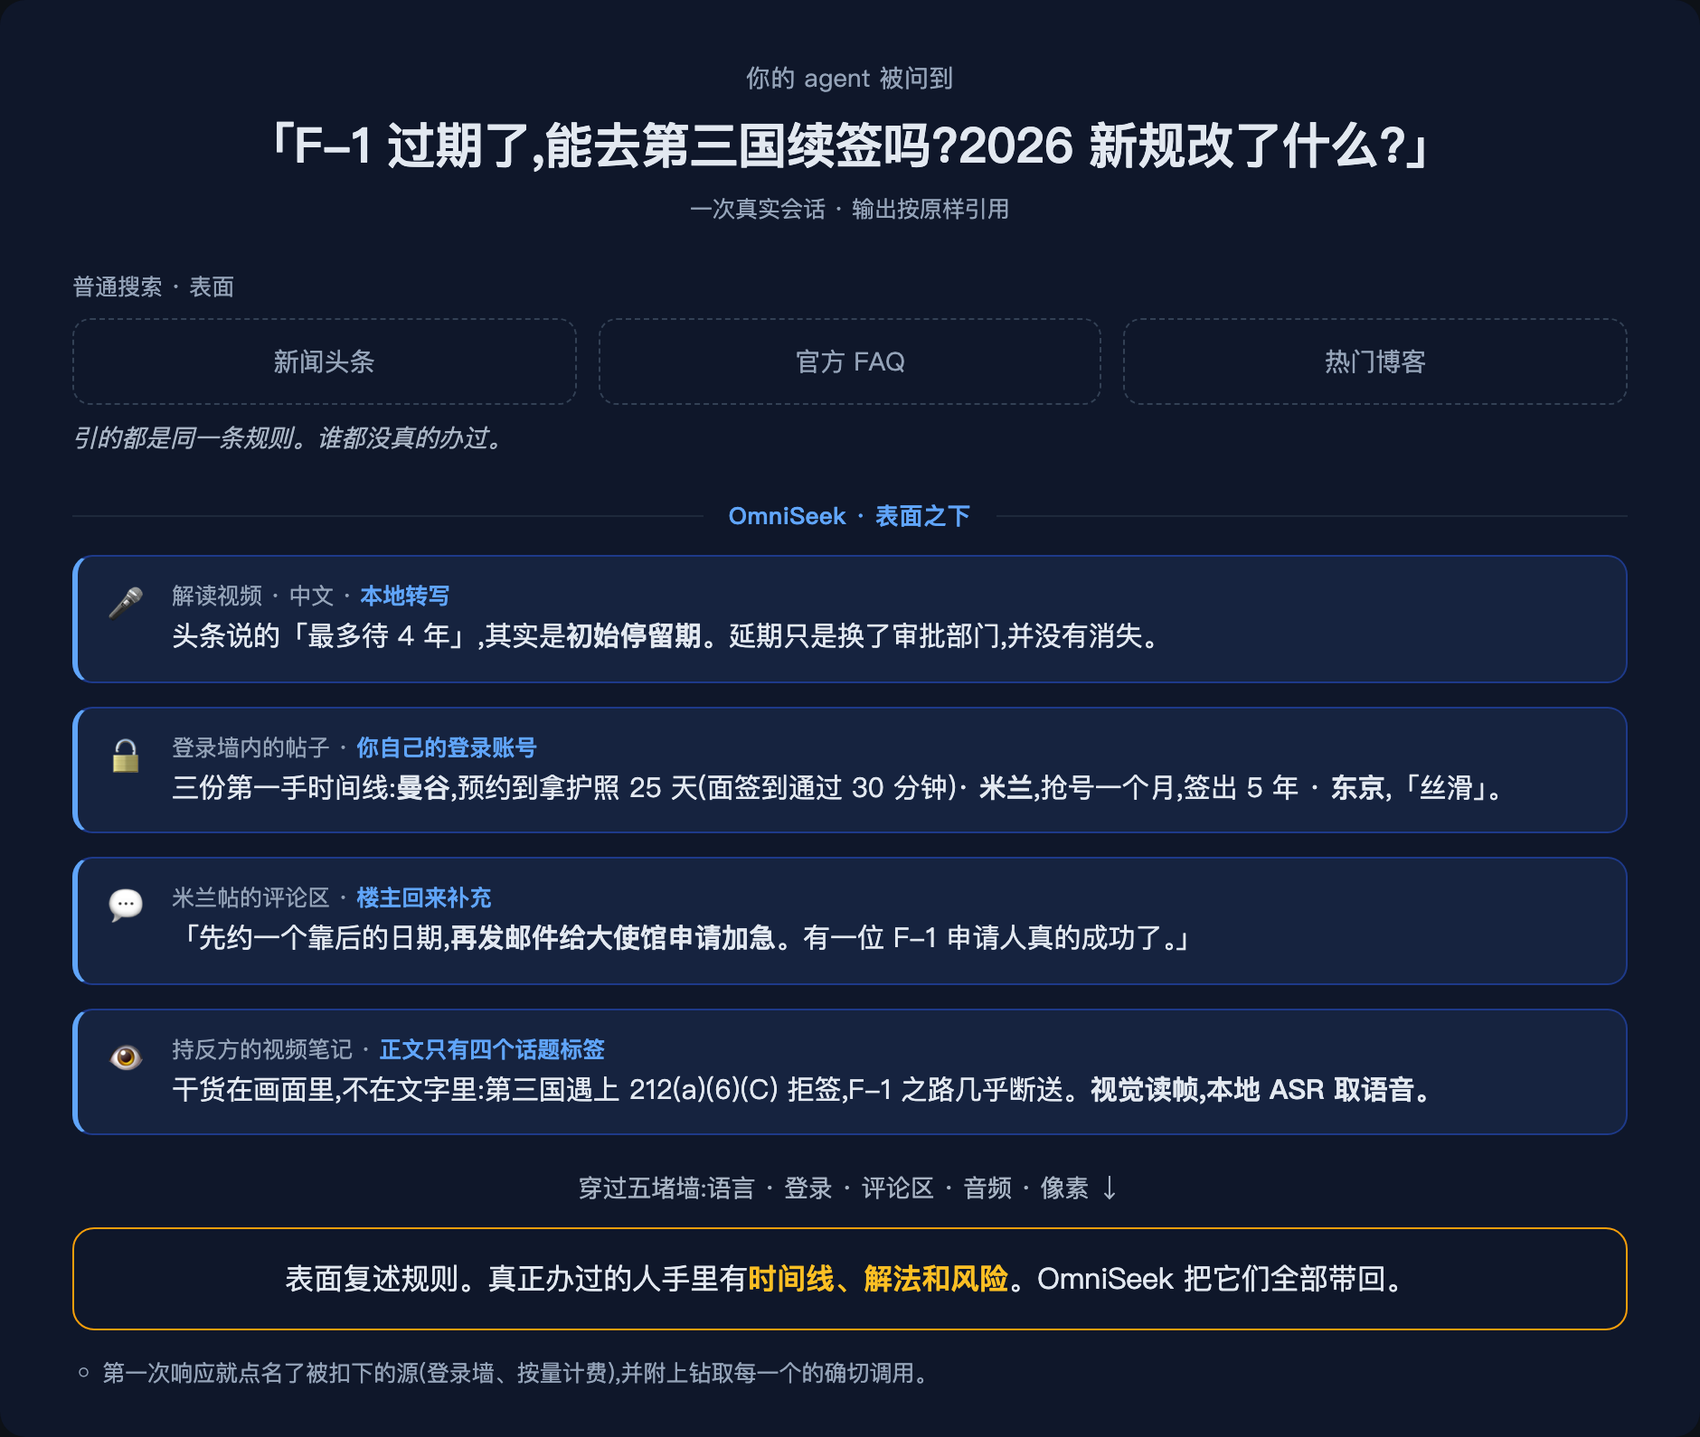
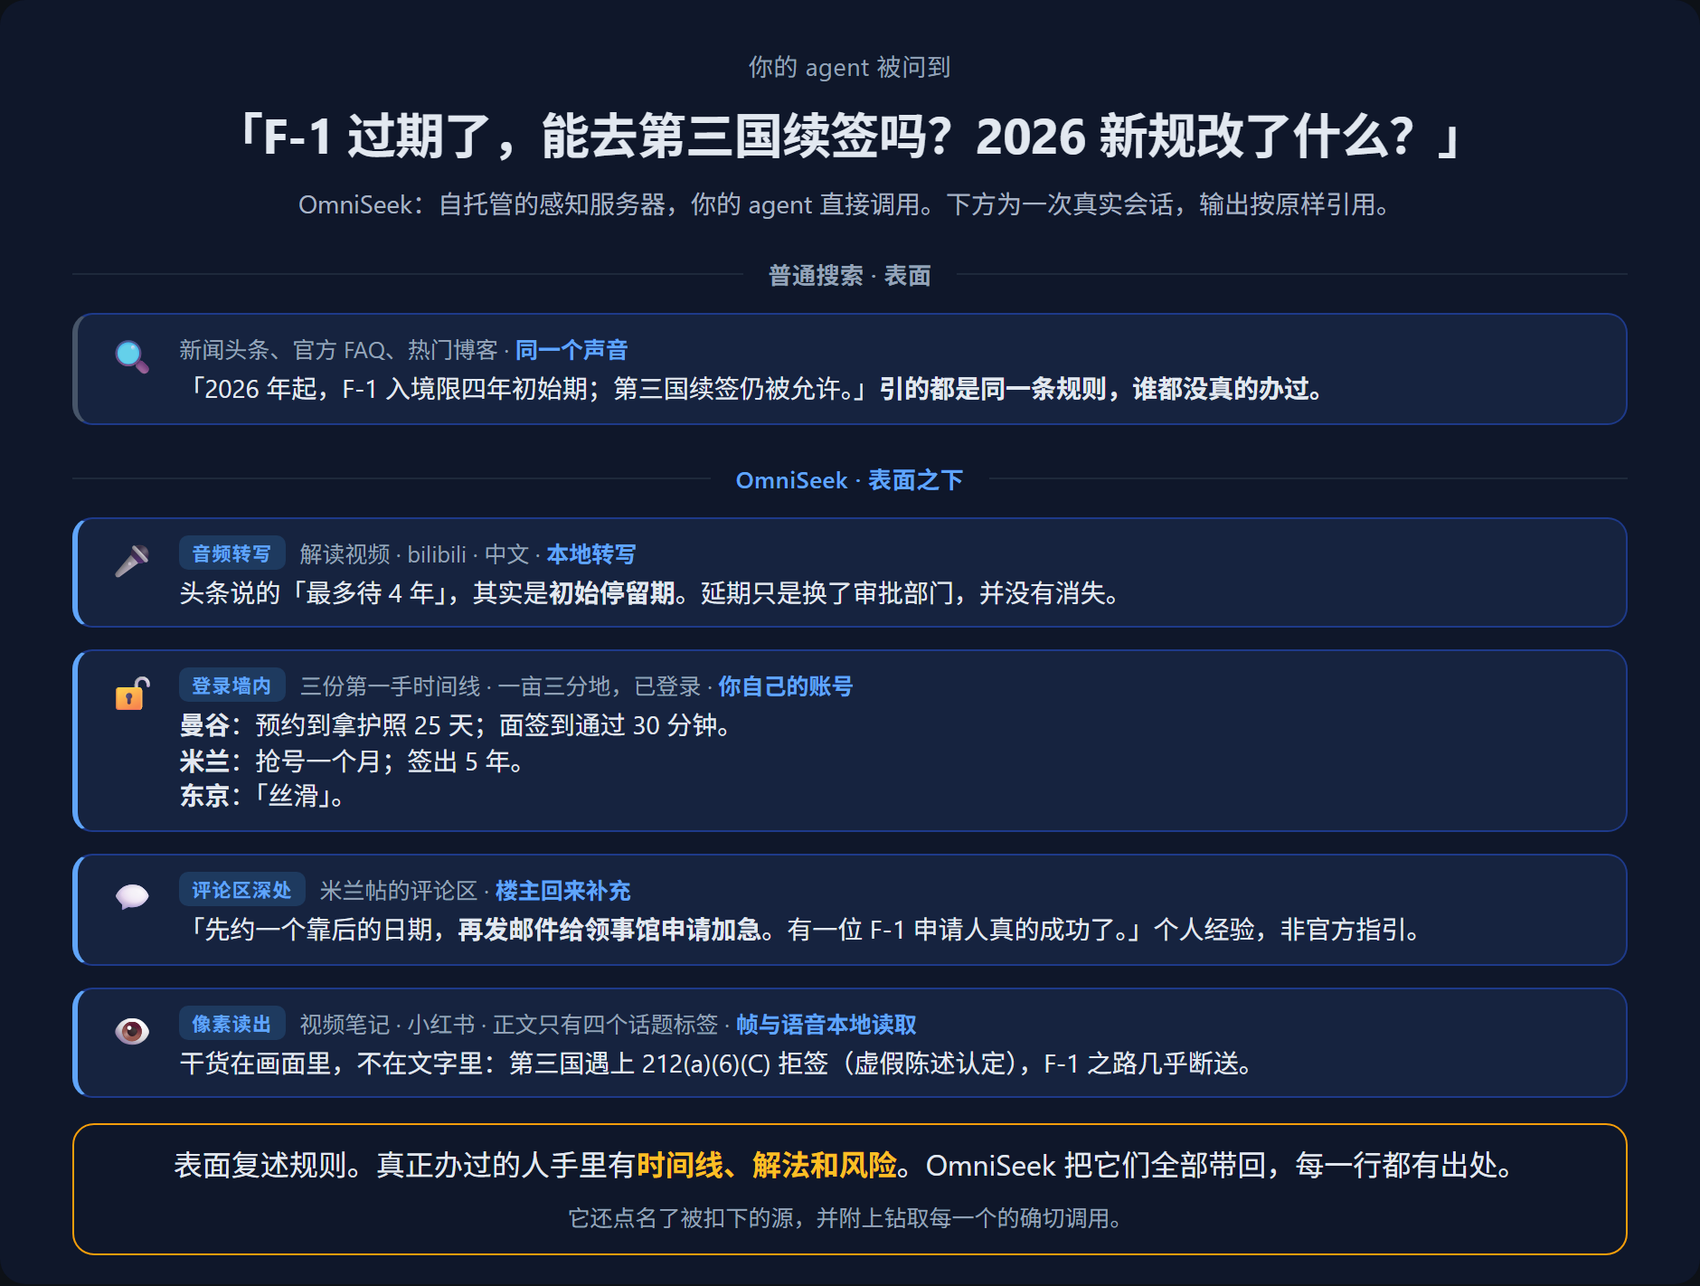
Rebuild demo infographic assets

diff --git a/assets/masters/gen_demo.py b/assets/masters/gen_demo.py
@@ -1,54 +1,48 @@
 # -*- coding: utf-8 -*-
 """Generate the 6 demo-figure HTML files (en/zh/ja x light/dark) from one template."""
 import pathlib
+import re
 
 TEMPLATE = """<!doctype html><html><head><meta charset="utf-8"><style>
   * { margin:0; padding:0; box-sizing:border-box; }
   html,body { background:@@PAGEBG@@; }
   body { font-family:-apple-system,"SF Pro Text","Segoe UI","PingFang SC","Hiragino Sans","Hiragino Sans GB",sans-serif; padding:20px; }
-  #shot { width:940px; background:@@BG@@; border-radius:14px; padding:34px 40px 26px; }
+  #shot { width:940px; background:@@BG@@; border-radius:14px; padding:26px 40px 16px; }
   .ask { text-align:center; font-size:13.5px; color:@@MUTED@@; letter-spacing:.02em; }
   h1 { text-align:center; font-size:27px; font-weight:700; color:@@FG@@; margin-top:8px; letter-spacing:-.01em; }
-  .sub { text-align:center; font-size:12.5px; color:@@MUTED@@; margin-top:8px; }
-  .surflabel { font-size:12.5px; color:@@MUTED@@; margin-top:26px; }
-  .ghosts { display:flex; gap:12px; margin-top:9px; }
-  .ghost { flex:1; border:1.5px dashed @@GHOSTBORDER@@; border-radius:10px; padding:13px 10px; text-align:center; color:@@GHOSTFG@@; font-size:14px; }
-  .allsay { font-style:italic; color:@@MUTED2@@; font-size:13.5px; margin-top:9px; }
-  .divider { display:flex; align-items:center; gap:14px; margin:24px 0 4px; }
+  .whatis { text-align:center; font-size:14px; color:@@MUTED2@@; margin-top:9px; }
+  .divider { display:flex; align-items:center; gap:14px; margin:20px 0 2px; }
   .divider .line { flex:1; height:1px; background:@@LINE@@; }
   .divider .t { font-size:13px; color:@@ACCENT@@; font-weight:600; letter-spacing:.02em; }
-  .card { display:flex; gap:13px; margin-top:13px; background:@@CARDBG@@; border:1px solid @@CARDBORDER@@; border-left:3.5px solid @@ACCENT@@; border-radius:11px; padding:13px 17px; }
+  .divider.gray .t { color:@@MUTED@@; }
+  .card { display:flex; gap:13px; margin-top:12px; background:@@CARDBG@@; border:1px solid @@CARDBORDER@@; border-left:3.5px solid @@ACCENT@@; border-radius:11px; padding:9px 17px; }
+  .card.surface { border-left-color:@@SURFRAIL@@; }
   .card .ico { font-size:19px; line-height:1.2; flex:0 0 auto; padding-top:2px; }
   .card .meta { font-size:12.5px; color:@@MUTED@@; }
   .card .meta b { color:@@ACCENT@@; font-weight:650; }
-  .card .txt { font-size:15px; color:@@FG@@; line-height:1.5; margin-top:3px; }
+  .wall { display:inline-block; font-size:10.5px; font-weight:650; letter-spacing:.06em; color:@@ACCENT@@; background:@@CHIPBG@@; border-radius:5px; padding:2px 7px; margin-right:8px; vertical-align:1px; }
+  .card .txt { font-size:14px; color:@@FG@@; line-height:1.4; margin-top:3px; }
   .card .txt b { font-weight:650; }
-  .conv { text-align:center; font-size:13.5px; color:@@MUTED2@@; margin-top:20px; }
-  .verdict { margin-top:12px; border:1.5px solid #F59E0B; border-radius:12px; padding:15px 22px; text-align:center; font-size:16px; color:@@FG@@; line-height:1.55; }
+  .verdict { margin-top:14px; border:1.5px solid #F59E0B; border-radius:12px; padding:10px 22px; text-align:center; font-size:16px; color:@@FG@@; line-height:1.55; }
   .verdict b { color:@@AMBERTEXT@@; font-weight:650; }
-  .held { font-size:12.5px; color:@@MUTED@@; margin-top:14px; }
+  .verdict .v2 { font-size:12.5px; color:@@MUTED@@; margin-top:7px; font-weight:400; }
 </style></head><body>
 <div id="shot">
   <div class="ask">@@ASK@@</div>
   <h1>@@Q@@</h1>
-  <div class="sub">@@SUB@@</div>
+  <div class="whatis">@@WHATIS@@</div>
 
-  <div class="surflabel">@@SURFLABEL@@</div>
-  <div class="ghosts">
-    <div class="ghost">@@G1@@</div><div class="ghost">@@G2@@</div><div class="ghost">@@G3@@</div>
-  </div>
-  <div class="allsay">@@ALLSAY@@</div>
+  <div class="divider gray"><div class="line"></div><div class="t">@@SURFDIV@@</div><div class="line"></div></div>
+  <div class="card surface"><div class="ico">&#128269;</div><div><div class="meta">@@SMETA@@</div><div class="txt">@@S1@@</div></div></div>
 
   <div class="divider"><div class="line"></div><div class="t">@@DIVIDER@@</div><div class="line"></div></div>
 
-  <div class="card"><div class="ico">&#127908;</div><div><div class="meta">@@C1META@@</div><div class="txt">@@C1@@</div></div></div>
-  <div class="card"><div class="ico">&#128275;</div><div><div class="meta">@@C2META@@</div><div class="txt">@@C2@@</div></div></div>
-  <div class="card"><div class="ico">&#128172;</div><div><div class="meta">@@C3META@@</div><div class="txt">@@C3@@</div></div></div>
-  <div class="card"><div class="ico">&#128065;&#65039;</div><div><div class="meta">@@C4META@@</div><div class="txt">@@C4@@</div></div></div>
+  <div class="card"><div class="ico">&#127908;</div><div><div class="meta"><span class="wall">@@W1@@</span>@@C1META@@</div><div class="txt">@@C1@@</div></div></div>
+  <div class="card"><div class="ico">&#128275;</div><div><div class="meta"><span class="wall">@@W2@@</span>@@C2META@@</div><div class="txt">@@C2@@</div></div></div>
+  <div class="card"><div class="ico">&#128172;</div><div><div class="meta"><span class="wall">@@W3@@</span>@@C3META@@</div><div class="txt">@@C3@@</div></div></div>
+  <div class="card"><div class="ico">&#128065;&#65039;</div><div><div class="meta"><span class="wall">@@W4@@</span>@@C4META@@</div><div class="txt">@@C4@@</div></div></div>
 
-  <div class="conv">@@CONV@@</div>
-  <div class="verdict">@@VERDICT@@</div>
-  <div class="held">@@HELD@@</div>
+  <div class="verdict">@@VERDICT@@<div class="v2">@@VERDICT2@@</div></div>
 </div>
 </body></html>
 """
@@ -57,81 +51,100 @@ MODES = {
     "light": {
         "@@PAGEBG@@": "#f1f5f9", "@@BG@@": "#ffffff", "@@FG@@": "#0F172A",
         "@@MUTED@@": "#64748B", "@@MUTED2@@": "#475569", "@@LINE@@": "#E2E8F0",
-        "@@GHOSTBORDER@@": "#CBD5E1", "@@GHOSTFG@@": "#64748B",
         "@@CARDBG@@": "#F8FAFC", "@@CARDBORDER@@": "#E2E8F0",
         "@@ACCENT@@": "#3B82F6", "@@AMBERTEXT@@": "#B45309",
+        "@@SURFRAIL@@": "#94A3B8", "@@CHIPBG@@": "#EFF6FF",
     },
     "dark": {
         "@@PAGEBG@@": "#0d1117", "@@BG@@": "#0F172A", "@@FG@@": "#E2E8F0",
         "@@MUTED@@": "#94A3B8", "@@MUTED2@@": "#A8B4C4", "@@LINE@@": "#1E293B",
-        "@@GHOSTBORDER@@": "#334155", "@@GHOSTFG@@": "#94A3B8",
         "@@CARDBG@@": "#16233F", "@@CARDBORDER@@": "#1E3A8A",
         "@@ACCENT@@": "#60A5FA", "@@AMBERTEXT@@": "#FBBF24",
+        "@@SURFRAIL@@": "#475569", "@@CHIPBG@@": "#1E3A5F",
     },
 }
 
 LANGS = {
     "en": {
-        "@@ASK@@": "your agent asks",
-        "@@Q@@": "&ldquo;Can I renew my F-1 in a third country? What changed in 2026?&rdquo;",
-        "@@SUB@@": "one live session &middot; outputs quoted as returned",
-        "@@SURFLABEL@@": "plain search &middot; the surface",
-        "@@G1@@": "the headlines", "@@G2@@": "the official FAQ", "@@G3@@": "the top blog posts",
-        "@@ALLSAY@@": "All quote the same rule. None of them have done it.",
+        "@@ASK@@": "your agent is asked",
+        "@@Q@@": "&ldquo;Can I renew my F-1 visa in a third country? What changed in 2026?&rdquo;",
+        "@@WHATIS@@": "OmniSeek is a self-hosted perception server your agent calls. One live session below &middot; outputs quoted as returned.",
+        "@@SURFDIV@@": "plain search &middot; the surface",
+        "@@SMETA@@": "headlines, official FAQ, top blogs &middot; <b>one voice</b>",
+        "@@S1@@": "&ldquo;From 2026, F-1 admission is limited to a 4-year initial period; renewal in a third country remains possible.&rdquo; <b>All quote the same rule. None of them have done it.</b>",
         "@@DIVIDER@@": "OmniSeek &middot; beneath the surface",
-        "@@C1META@@": "explainer video &middot; Chinese &middot; <b>transcribed locally</b>",
+        "@@W1@@": "TRANSCRIBED FROM AUDIO", "@@W2@@": "BEHIND LOGIN", "@@W3@@": "DEEP IN THE COMMENTS", "@@W4@@": "READ FROM PIXELS",
+        "@@C1META@@": "explainer video &middot; bilibili, Chinese &middot; <b>transcribed locally</b>",
         "@@C1@@": "The &ldquo;4-year cap&rdquo; in the headlines is the <b>initial period</b>. Extensions moved desks; they didn&rsquo;t vanish.",
-        "@@C2META@@": "login-walled posts &middot; <b>your own logged-in account</b>",
-        "@@C2@@": "Three first-person timelines: <b>Bangkok</b>, booked to passport in 25 days (interview to approval: 30 minutes) &middot; <b>Milan</b>, a month-long slot war, visa good for 5 years &middot; <b>Tokyo</b>, &ldquo;silky-smooth&rdquo;.",
+        "@@C2META@@": "three first-person threads &middot; 1point3acres, logged in &middot; <b>your own account</b>",
+        "@@C2@@": "<b>Bangkok</b>: booked to passport in 25 days; interview to approval, 30 minutes.<br><b>Milan</b>: a month-long fight for a slot; visa issued for 5 years.<br><b>Tokyo</b>: &ldquo;silky-smooth&rdquo;.",
         "@@C3META@@": "the comments under the Milan post &middot; <b>the author returns</b>",
-        "@@C3@@": "&ldquo;Book any late slot first, <b>then email the consulate to expedite</b>. For one F-1 applicant it worked.&rdquo;",
-        "@@C4META@@": "a dissenting video note &middot; <b>body is four hashtags</b>",
-        "@@C4@@": "The facts are on screen, not in the text: a 212(a)(6)(C) refusal abroad can nearly close the F-1 road. <b>Vision reads the frames; local ASR takes the speech.</b>",
-        "@@CONV@@": "Five walls crossed: language &middot; login &middot; comments &middot; audio &middot; pixels &darr;",
-        "@@VERDICT@@": "The surface quoted the rule. The people who already lived it had <b>the timelines, the workaround, and the risk</b>. OmniSeek brought back all of it.",
-        "@@HELD@@": "&#9702; The very first response also named the sources it held back (login-walled, quota-priced), each with the exact call to drill it.",
+        "@@C3@@": "&ldquo;Book any late slot first, <b>then email the consulate to expedite</b>. For one F-1 applicant it worked.&rdquo; One person&rsquo;s experience, not official guidance.",
+        "@@C4META@@": "video note &middot; rednote &middot; caption is four hashtags &middot; <b>frames and speech read locally</b>",
+        "@@C4@@": "The facts are on screen, not in the caption: a 212(a)(6)(C) refusal abroad (a misrepresentation finding) can nearly close the F-1 road.",
+        "@@VERDICT@@": "The surface quoted the rule. The people who had lived it held <b>the timelines, the workaround, and the risk</b>. OmniSeek brought back all of it, each line attributed.",
+        "@@VERDICT2@@": "It also named the sources it held back, each with the exact call to drill it.",
     },
     "zh": {
         "@@ASK@@": "你的 agent 被问到",
-        "@@Q@@": "「F-1 过期了,能去第三国续签吗?2026 新规改了什么?」",
-        "@@SUB@@": "一次真实会话 &middot; 输出按原样引用",
-        "@@SURFLABEL@@": "普通搜索 &middot; 表面",
-        "@@G1@@": "新闻头条", "@@G2@@": "官方 FAQ", "@@G3@@": "热门博客",
-        "@@ALLSAY@@": "引的都是同一条规则。谁都没真的办过。",
+        "@@Q@@": "「F-1 过期了，能去第三国续签吗？2026 新规改了什么？」",
+        "@@WHATIS@@": "OmniSeek：自托管的感知服务器，你的 agent 直接调用。下方为一次真实会话，输出按原样引用。",
+        "@@SURFDIV@@": "普通搜索 &middot; 表面",
+        "@@SMETA@@": "新闻头条、官方 FAQ、热门博客 &middot; <b>同一个声音</b>",
+        "@@S1@@": "「2026 年起，F-1 入境限四年初始期；第三国续签仍被允许。」<b>引的都是同一条规则，谁都没真的办过。</b>",
         "@@DIVIDER@@": "OmniSeek &middot; 表面之下",
-        "@@C1META@@": "解读视频 &middot; 中文 &middot; <b>本地转写</b>",
-        "@@C1@@": "头条说的「最多待 4 年」,其实是<b>初始停留期</b>。延期只是换了审批部门,并没有消失。",
-        "@@C2META@@": "登录墙内的帖子 &middot; <b>你自己的登录账号</b>",
-        "@@C2@@": "三份第一手时间线:<b>曼谷</b>,预约到拿护照 25 天(面签到通过 30 分钟)&middot; <b>米兰</b>,抢号一个月,签出 5 年 &middot; <b>东京</b>,「丝滑」。",
+        "@@W1@@": "音频转写", "@@W2@@": "登录墙内", "@@W3@@": "评论区深处", "@@W4@@": "像素读出",
+        "@@C1META@@": "解读视频 &middot; bilibili &middot; 中文 &middot; <b>本地转写</b>",
+        "@@C1@@": "头条说的「最多待 4 年」，其实是<b>初始停留期</b>。延期只是换了审批部门，并没有消失。",
+        "@@C2META@@": "三份第一手时间线 &middot; 一亩三分地，已登录 &middot; <b>你自己的账号</b>",
+        "@@C2@@": "<b>曼谷</b>：预约到拿护照 25 天；面签到通过 30 分钟。<br><b>米兰</b>：抢号一个月；签出 5 年。<br><b>东京</b>：「丝滑」。",
         "@@C3META@@": "米兰帖的评论区 &middot; <b>楼主回来补充</b>",
-        "@@C3@@": "「先约一个靠后的日期,<b>再发邮件给大使馆申请加急</b>。有一位 F-1 申请人真的成功了。」",
-        "@@C4META@@": "持反方的视频笔记 &middot; <b>正文只有四个话题标签</b>",
-        "@@C4@@": "干货在画面里,不在文字里:第三国遇上 212(a)(6)(C) 拒签,F-1 之路几乎断送。<b>视觉读帧,本地 ASR 取语音。</b>",
-        "@@CONV@@": "穿过五堵墙:语言 &middot; 登录 &middot; 评论区 &middot; 音频 &middot; 像素 &darr;",
-        "@@VERDICT@@": "表面复述规则。真正办过的人手里有<b>时间线、解法和风险</b>。OmniSeek 把它们全部带回。",
-        "@@HELD@@": "&#9702; 第一次响应就点名了被扣下的源(登录墙、按量计费),并附上钻取每一个的确切调用。",
+        "@@C3@@": "「先约一个靠后的日期，<b>再发邮件给领事馆申请加急</b>。有一位 F-1 申请人真的成功了。」个人经验，非官方指引。",
+        "@@C4META@@": "视频笔记 &middot; 小红书 &middot; 正文只有四个话题标签 &middot; <b>帧与语音本地读取</b>",
+        "@@C4@@": "干货在画面里，不在文字里：第三国遇上 212(a)(6)(C) 拒签（虚假陈述认定），F-1 之路几乎断送。",
+        "@@VERDICT@@": "表面复述规则。真正办过的人手里有<b>时间线、解法和风险</b>。OmniSeek 把它们全部带回，每一行都有出处。",
+        "@@VERDICT2@@": "它还点名了被扣下的源，并附上钻取每一个的确切调用。",
     },
     "ja": {
         "@@ASK@@": "エージェントへの質問",
-        "@@Q@@": "「F-1 が切れた。第三国で更新できる?2026 年に何が変わった?」",
-        "@@SUB@@": "実セッションひとつ &middot; 出力は返ってきたまま引用",
-        "@@SURFLABEL@@": "通常の検索 &middot; 表面",
-        "@@G1@@": "ニュース見出し", "@@G2@@": "公式 FAQ", "@@G3@@": "人気ブログ",
-        "@@ALLSAY@@": "どれも同じ規則を引用するだけ。実際にやった人はいない。",
+        "@@Q@@": "「F-1 が切れた。第三国で更新できる？2026 年に何が変わった？」",
+        "@@WHATIS@@": "OmniSeek はエージェントが呼び出すセルフホスト型の知覚サーバー。以下はひとつの実セッション、出力は返ってきたまま引用。",
+        "@@SURFDIV@@": "通常の検索 &middot; 表面",
+        "@@SMETA@@": "ニュース見出し、公式 FAQ、人気ブログ &middot; <b>声はひとつ</b>",
+        "@@S1@@": "「2026 年より F-1 の入国は 4 年の初期滞在期間に制限。第三国での更新は引き続き可能。」<b>どれも同じ規則の引用。実際にやった人はいない。</b>",
         "@@DIVIDER@@": "OmniSeek &middot; 表面の下",
-        "@@C1META@@": "解説動画 &middot; 中国語 &middot; <b>ローカルで書き起こし</b>",
+        "@@W1@@": "音声から書き起こし", "@@W2@@": "ログインの内側", "@@W3@@": "コメント欄の奥", "@@W4@@": "ピクセルから読解",
+        "@@C1META@@": "解説動画 &middot; bilibili &middot; 中国語 &middot; <b>ローカルで書き起こし</b>",
         "@@C1@@": "見出しの「最長 4 年」は<b>初期滞在期間</b>のこと。延長は審査窓口が変わっただけで、消えてはいない。",
-        "@@C2META@@": "ログインの内側の投稿 &middot; <b>あなた自身のログイン</b>",
-        "@@C2@@": "一次体験のタイムライン三件:<b>バンコク</b>、予約からパスポートまで 25 日(面接から承認まで 30 分)&middot; <b>ミラノ</b>、枠争奪ひと月、ビザは 5 年 &middot; <b>東京</b>、「スムーズそのもの」。",
+        "@@C2META@@": "一次体験のタイムライン三件 &middot; 1point3acres、ログイン済み &middot; <b>あなた自身のアカウント</b>",
+        "@@C2@@": "<b>バンコク</b>：予約からパスポートまで 25 日；面接から承認まで 30 分。<br><b>ミラノ</b>：枠争奪ひと月；ビザは 5 年。<br><b>東京</b>：「スムーズそのもの」。",
         "@@C3META@@": "ミラノ投稿のコメント欄 &middot; <b>投稿者が戻ってきて</b>",
         "@@C3@@": "「まず遅い日程で予約し、<b>それから領事館にメールで繰り上げを依頼</b>。F-1 申請者一人は実際に成功した。」",
-        "@@C4META@@": "反対意見の動画ノート &middot; <b>本文はハッシュタグ四つ</b>",
-        "@@C4@@": "事実は文字ではなく画面の上に:第三国での 212(a)(6)(C) 拒否は F-1 への道をほぼ閉ざす。<b>視覚がフレームを読み、ローカル ASR が音声を取る。</b>",
-        "@@CONV@@": "五つの壁を越えて:言語 &middot; ログイン &middot; コメント &middot; 音声 &middot; ピクセル &darr;",
-        "@@VERDICT@@": "表面は規則を引用するだけ。実際に経験した人々は<b>タイムラインと回避策とリスク</b>を知っていた。OmniSeek はそのすべてを持ち帰る。",
-        "@@HELD@@": "&#9702; 最初の応答の時点で、保留にしたソース(ログイン制・従量課金)を名指しし、それぞれを掘る正確な呼び出しを添えていた。",
+        "@@C4META@@": "動画ノート &middot; RED（小紅書）&middot; 本文はハッシュタグ四つ &middot; <b>フレームと音声をローカルで読む</b>",
+        "@@C4@@": "事実は文字ではなく画面の上に：第三国での 212(a)(6)(C) 拒否（虚偽陳述の認定）は F-1 への道をほぼ閉ざす。",
+        "@@VERDICT@@": "表面は規則を引用するだけ。実際に経験した人々は<b>タイムラインと回避策とリスク</b>を持っていた。OmniSeek はそのすべてを、出典つきで持ち帰る。",
+        "@@VERDICT2@@": "保留にしたソースも名指しし、それぞれを掘る正確な呼び出しを添えていた。",
     },
 }
+
+def _lint_cjk_punctuation():
+    allowed = ("F-1", "212(a)(6)(C)", "FAQ", "OmniSeek", "bilibili", "agent", "ASR")
+    forbidden = ",?:;()"
+    findings = []
+    for lang in ("zh", "ja"):
+        for token, value in LANGS[lang].items():
+            remaining = value
+            for exception in allowed:
+                remaining = remaining.replace(exception, "")
+            remaining = re.sub(r"<[^>]+>|&(?:[A-Za-z][A-Za-z0-9]+|#\d+);", "", remaining)
+            for char in forbidden:
+                if char in remaining:
+                    findings.append(f"{lang} {token} contains ASCII {char!r}: {value}")
+    assert not findings, "CJK punctuation lint failed:\n" + "\n".join(findings)
+    return findings
+
+
+_lint_cjk_punctuation()
 
 out = pathlib.Path(__file__).parent
 for lang, strings in LANGS.items():
